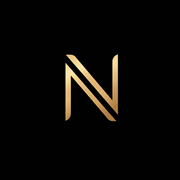
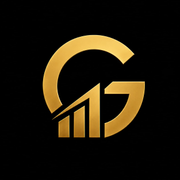
Rebrand app to Groenics

Changed region(s): [[0.2222, 0.1667, 0.8056, 0.7778]]

diff --git a/components/Footer.tsx b/components/Footer.tsx
@@ -16,17 +16,16 @@ export default function Footer() {
           {/* Brand */}
           <div className="flex items-center gap-3">
             <Image
-              src="/nayab-labs-logo.jpeg"
-              alt="Nayab Labs"
+              src="/groenics-logo.jpeg"
+              alt="Groenics"
               width={44}
               height={44}
               className="h-11 w-11 rounded-lg object-cover"
             />
             <div>
               <h3 className="text-xl font-bold tracking-tight">
-                NAYAB{" "}
                 <span className="bg-linear-to-r from-amber-100 to-yellow-700 bg-clip-text text-transparent">
-                  LABS
+                  GROENICS
                 </span>
               </h3>
               <p className="text-gray-600 text-sm mt-1">
@@ -50,7 +49,7 @@ export default function Footer() {
 
           {/* Copyright */}
           <p className="text-gray-700 text-sm">
-            &copy; 2025 Nayab Labs
+            &copy; 2025 Groenics
           </p>
         </div>
       </div>

diff --git a/app/auth/signup/page.tsx b/app/auth/signup/page.tsx
@@ -66,14 +66,14 @@ export default function SignupPage() {
         {/* Header */}
         <div className="text-center mb-10">
           <Image
-            src="/nayab-labs-logo.jpeg"
-            alt="Nayab Labs"
+            src="/groenics-logo.jpeg"
+            alt="Groenics"
             width={72}
             height={72}
             priority
             className="mx-auto mb-5 h-[72px] w-[72px] rounded-2xl object-cover border border-amber-300/25"
           />
-          <h1 className="text-4xl font-bold text-white mb-2">Nayab Labs</h1>
+          <h1 className="text-4xl font-bold text-white mb-2">Groenics</h1>
           <p className="text-gray-400">Operating System for Business Execution</p>
         </div>
 
@@ -194,7 +194,7 @@ export default function SignupPage() {
 
         {/* Footer */}
         <p className="text-center text-gray-500 text-xs mt-8">
-          &copy; 2024 Nayab Labs. All rights reserved.
+          &copy; 2024 Groenics. All rights reserved.
         </p>
       </div>
     </div>

diff --git a/app/portal/billing/page.tsx b/app/portal/billing/page.tsx
@@ -229,9 +229,9 @@ export default function BillingPage() {
   <div class="page">
     <div class="header">
       <div class="brand">
-        <h1>NAYAB LABS</h1>
-        <p>Nayab Labs - Business Solutions</p>
-        <p style="margin-top:2px;">[email redacted]</p>
+        <h1>GROENICS</h1>
+        <p>Groenics - Business Solutions</p>
+        <p style="margin-top:2px;">[email redacted]</p>
       </div>
       <div class="invoice-meta">
         <div class="inv-label">Invoice</div>
@@ -283,7 +283,7 @@ export default function BillingPage() {
     ${inv.notes ? `<div class="notes-section"><label>Notes</label><p>${inv.notes}</p></div>` : ""}
 
     <div class="footer">
-      <p>Thank you for your business! - Nayab Labs - nayablabs.com</p>
+      <p>Thank you for your business! - Groenics - groenics.com</p>
     </div>
 
     <div class="no-print" style="text-align:center;margin-top:32px;">

diff --git a/app/auth/login/page.tsx b/app/auth/login/page.tsx
@@ -58,8 +58,8 @@ function LoginContent() {
         <div className="text-center mb-10">
           <div className="inline-flex items-center justify-center w-16 h-16 rounded-2xl bg-black border border-amber-300/25 mb-5 overflow-hidden">
             <Image
-              src="/nayab-labs-logo.jpeg"
-              alt="Nayab Labs"
+              src="/groenics-logo.jpeg"
+              alt="Groenics"
               width={64}
               height={64}
               className="h-full w-full object-cover"
@@ -67,7 +67,7 @@ function LoginContent() {
             />
           </div>
           <h1 className="text-3xl font-bold text-white mb-2">Portal Access</h1>
-          <p className="text-gray-500 text-sm">Nayab Labs - Internal System</p>
+          <p className="text-gray-500 text-sm">Groenics - Internal System</p>
         </div>
 
         {/* Card */}

diff --git a/components/Navbar.tsx b/components/Navbar.tsx
@@ -33,15 +33,15 @@ export default function Navbar() {
         {/* Logo */}
         <Link href="/" className="flex items-center gap-3">
           <Image
-            src="/nayab-labs-logo.jpeg"
-            alt="Nayab Labs"
+            src="/groenics-logo.jpeg"
+            alt="Groenics"
             width={48}
             height={48}
             priority
             className="h-12 w-12 rounded-lg object-cover"
           />
           <span className="hidden sm:block font-bold text-white text-lg tracking-tight">
-            Nayab <span className="text-amber-300">Labs</span>
+            Groenics
           </span>
         </Link>
 

diff --git a/components/PortalLayout.tsx b/components/PortalLayout.tsx
@@ -72,14 +72,14 @@ export default function PortalLayout({ children }: PortalLayoutProps) {
         <div className="p-6 border-b border-amber-300/10 flex items-center justify-between">
           <div className="flex items-center gap-3 min-w-0">
             <Image
-              src="/nayab-labs-logo.jpeg"
-              alt="Nayab Labs"
+              src="/groenics-logo.jpeg"
+              alt="Groenics"
               width={36}
               height={36}
               className="h-9 w-9 rounded-lg object-cover border border-amber-300/20"
               priority
             />
-            {sidebarOpen && <h1 className="text-xl font-bold truncate">Nayab Labs</h1>}
+            {sidebarOpen && <h1 className="text-xl font-bold truncate">Groenics</h1>}
           </div>
           <button
             onClick={() => setSidebarOpen(!sidebarOpen)}

diff --git a/app/layout.tsx b/app/layout.tsx
@@ -13,9 +13,9 @@ const geistMono = Geist_Mono({
 });
 
 export const metadata: Metadata = {
-  title: "Nayab Labs - Complete Business Solutions",
+  title: "Groenics - Complete Business Solutions",
   description:
-    "Nayab Labs helps businesses move from strategy to execution with AI, operations, automation, product development, and growth systems.",
+    "Groenics helps businesses move from strategy to execution with AI, operations, automation, product development, and growth systems.",
 };
 
 export default function RootLayout({

diff --git a/components/About.tsx b/components/About.tsx
@@ -5,12 +5,12 @@ export default function About() {
         <h2 className="text-5xl font-bold mb-8">
           About{" "}
           <span className="bg-linear-to-r from-amber-100 to-yellow-700 bg-clip-text text-transparent">
-            Nayab Labs
+            Groenics
           </span>
         </h2>
 
         <p className="text-xl text-stone-300 leading-relaxed">
-          Nayab Labs is a business solutions company for teams that need both
+          Groenics is a business solutions company for teams that need both
           thinking and execution. We help with strategy, operations, software,
           automation, AI adoption, growth systems, and the day-to-day buildout
           required to move a business forward.

diff --git a/app/apply/page.tsx b/app/apply/page.tsx
@@ -9,7 +9,7 @@ export default function ApplyPage() {
         <h1 className="text-5xl font-bold text-center mb-6">
           Start A Project With{" "}
           <span className="bg-linear-to-r from-amber-100 to-yellow-700 bg-clip-text text-transparent">
-            Nayab Labs
+            Groenics
           </span>
         </h1>
 

diff --git a/app/portal/layout.tsx b/app/portal/layout.tsx
@@ -1,7 +1,7 @@
 import PortalLayout from "@/components/PortalLayout";
 
 export const metadata = {
-  title: "Nayab Labs Portal",
+  title: "Groenics Portal",
   description: "Operating system for business execution and growth",
 };
 

diff --git a/components/Contact.tsx b/components/Contact.tsx
@@ -76,7 +76,7 @@ export default function Contact() {
                       href={item.href}
                       target="_blank"
                       rel="noreferrer"
-                      aria-label="Message Nayab Labs on WhatsApp"
+                      aria-label="Message Groenics on WhatsApp"
                       className="group flex items-center gap-4 p-4 rounded-xl border border-[#25D366]/25 bg-[#25D366]/10 hover:border-[#25D366]/55 hover:bg-[#25D366]/15 transition-all duration-300"
                     >
                       <div className="w-12 h-12 rounded-xl bg-[#25D366] text-black flex items-center justify-center shrink-0 shadow-lg shadow-[#25D366]/15 group-hover:scale-105 transition-transform">

diff --git a/components/Hero.tsx b/components/Hero.tsx
@@ -46,7 +46,7 @@ export default function Hero() {
               transition={{ duration: 0.8, delay: 0.3 }}
               className="mt-8 text-lg text-stone-300 max-w-xl leading-relaxed"
             >
-              Nayab Labs helps businesses turn scattered work into clear
+              Groenics helps businesses turn scattered work into clear
               strategy, automated operations, better sales follow-up, and
               software that keeps the company moving.
             </motion.p>